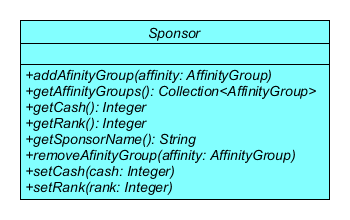
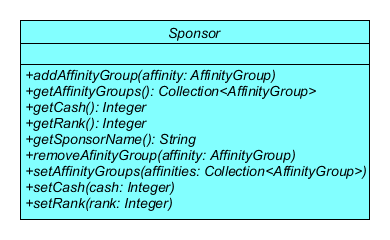
Updated diagrams.

Changed region(s): [[0.0286, 0.0818, 0.9714, 0.9273]]

diff --git a/src/main/java/com/wandrell/tabletop/dreadball/model/faction/Sponsor.java b/src/main/java/com/wandrell/tabletop/dreadball/model/faction/Sponsor.java
@@ -80,10 +80,10 @@ public interface Sponsor {
     /**
      * Sets the affinity groups of the sponsor.
      * 
-     * @param groups
+     * @param affinities
      *            the new affinity groups for the sponsor
      */
-    public void setAffinityGroups(final Collection<AffinityGroup> groups);
+    public void setAffinityGroups(final Collection<AffinityGroup> affinities);
 
     /**
      * Sets the sponsor's cash.
